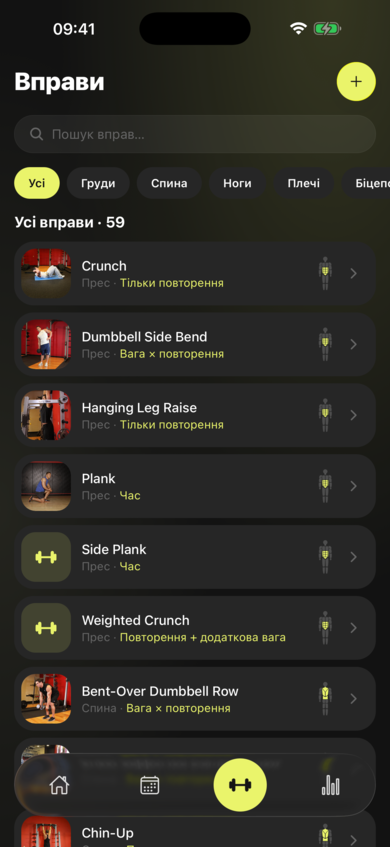
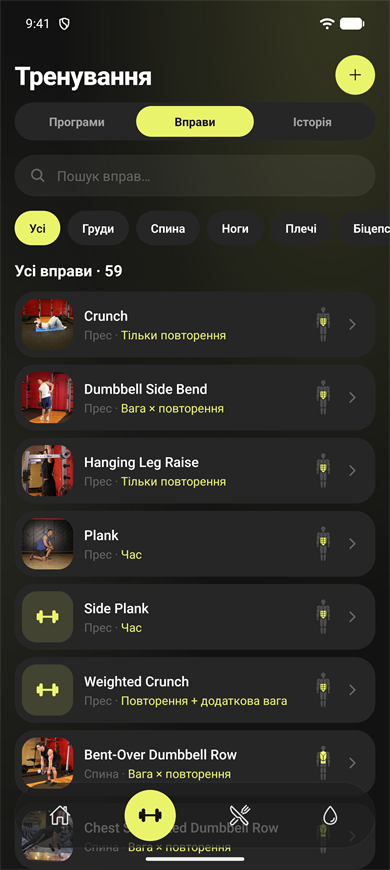
Retake README screenshots for the new navigation
Home, Programs, Exercises and History are captured again on the Pixel
emulator after the Training tab and the compact Today cards. AGENTS.md
now describes taking screenshots on Android (System UI demo mode, the
Expo Go tools button, adb deep links), and the README lists the food and
water features and the npm run android commands.

diff --git a/AGENTS.md b/AGENTS.md
@@ -68,7 +68,15 @@ Always use the **Pixel_10_Pro_API_37.0** emulator. `npm run android` boots it (s
 | `history.png` | Training tab, History section | `/training?view=history` |
 | `body-weight.png` | Body weight | `/body-weight` |
 
-How to retake (iPhone 17 Pro Max simulator with the app open in Expo Go and the dev server running):
+Screenshots may come from either platform. On Android (Pixel emulator, app open in Expo Go via `npm run android`):
+
+1. Clean status bar with System UI demo mode: `adb shell settings put global sysui_demo_allowed 1`, then `adb shell am broadcast -a com.android.systemui.demo -e command <cmd>` for `enter`, `clock -e hhmm 0941`, `battery -e level 100 -e plugged false`, `network -e wifi show -e level 4 -e fully true`, `network -e mobile hide` and `notifications -e visible false`.
+2. Hide the floating dev tools button: open the Expo menu (`adb shell input keyevent 82`) and switch off "Tools button".
+3. Open the screen: `adb reverse tcp:8081 tcp:8081`, then `adb shell am start -a android.intent.action.VIEW -d "exp://127.0.0.1:8081/--<route>" host.exp.exponent` (same `?home=1` trick for the home tab). Wait for it to load.
+4. Capture and shrink to 390 px wide: `adb exec-out screencap -p > shot.png`, then `magick shot.png -resize 390x -strip docs/screenshots/<file>` (without ImageMagick on Windows, resize with `System.Drawing` in PowerShell).
+5. Leave demo mode: the broadcast with `exit`.
+
+On iOS (iPhone 17 Pro Max simulator with the app open in Expo Go and the dev server running):
 
 1. Clean status bar: `xcrun simctl status_bar booted override --time "9:41" --batteryState charged --batteryLevel 100 --wifiBars 3 --cellularMode notSupported`.
 2. Open the screen with a deep link: `xcrun simctl openurl booted "exp://<dev-server-host>:8081/--<route>"`. For the home tab add a query (`/--/?home=1`), since a bare `/` keeps the current screen. Wait for it to load.

diff --git a/README.md b/README.md
@@ -7,6 +7,8 @@
 - **Вправи** — бібліотека з групами м'язів, фото та відео техніки на YouTube.
 - **Прогрес** — історія, «минулого разу», графік по вправі (e1RM для силових), особисті рекорди, календар активності.
 - **Вага тіла і калорії** — щоденна вага з графіком, орієнтовні спалені калорії за тренування й тиждень.
+- **Харчування** — страви вводяться текстом, калорії й БЖВ рахує AI (Groq, свій ключ у налаштуваннях); уже знайдені страви беруться з локальної бази. Рекомендована калорійність за профілем (зріст, вік, вага, активність).
+- **Вода** — денна норма, швидке додавання склянок, графік за тиждень.
 
 ## Скріншоти
 
@@ -28,7 +30,8 @@ Expo SDK 57 · Expo Router · TypeScript · expo-sqlite + Drizzle ORM
 npm install
 npx expo start          # Expo Go
 npx expo run:ios        # dev build (потрібен Xcode 26.4+)
-npx expo run:android
+npm run android         # Expo Go на емуляторі Pixel
+npm run android:build   # dev build на емуляторі Pixel
 ```
 
 ## Міграції БД
